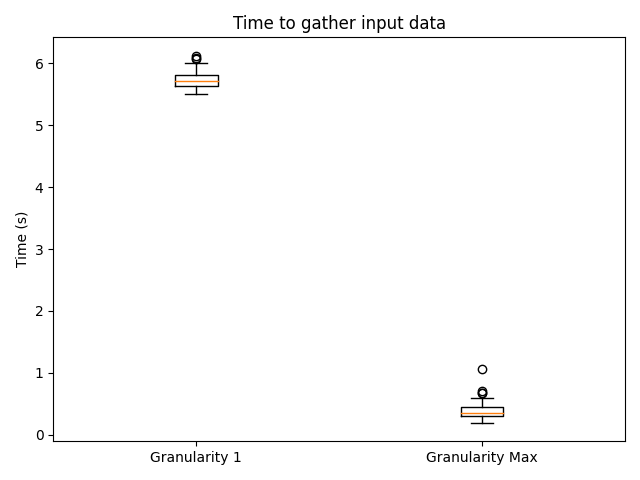
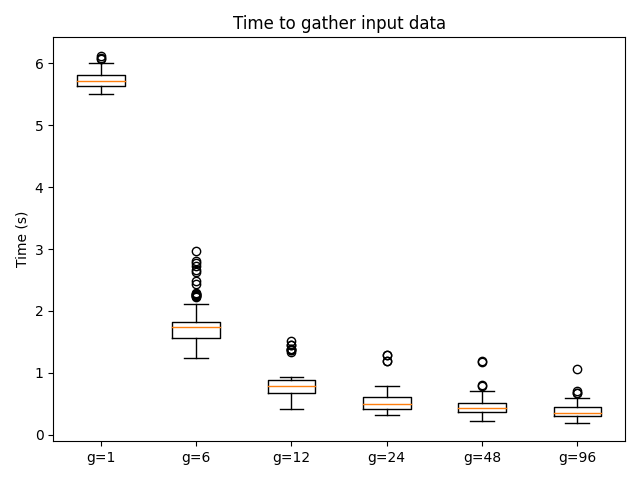
Update hypertuning plot granularities

diff --git a/hyperparameter-tuning/plot.py b/hyperparameter-tuning/plot.py
@@ -4,50 +4,37 @@ import os
 import json
 import pandas as pd
 
-GRANULARITY_1_DIR = "hyperparameter-tuning/results-noOW/bs-96-g-1/"
-GRANULARITY_MAX_DIR = "hyperparameter-tuning/results-noOW/bs-96-g-96/"
+GRANULARITIES = [1, 6, 12, 24, 48, 96]
+
+def load_data(granularity):
+    directory = f"hyperparameter-tuning/results-noOW/bs-96-g-{granularity}/"
+    workers_data = []
+    files = os.listdir(directory)
+    for file in files:
+        with open(os.path.join(directory, file), "r") as f:
+            data = json.load(f)
+            workers_data.extend(data)
+    df = pd.DataFrame.from_records(workers_data)
+    for col in df.columns:
+        if df[col].dtype == "object":
+            df[col] = pd.to_numeric(df[col], errors="coerce")
+    t0 = df["init_fn"].min() / 1000
+    t = (df["input_gathered"] / 1000) - t0
+    return t
 
 if __name__ == "__main__":
-    workers_data = []
-    files = os.listdir(GRANULARITY_1_DIR)
-    for file in files:
-        with open(os.path.join(GRANULARITY_1_DIR, file), "r") as f:
-            data = json.load(f)
-            workers_data.extend(data)
-
-    g1_df = pd.DataFrame.from_records(workers_data)
-    for col in g1_df.columns:
-        if g1_df[col].dtype == "object":
-            g1_df[col] = pd.to_numeric(g1_df[col], errors="coerce")
-
-    print(pd.to_numeric(g1_df["input_gathered"], errors="coerce"))
-
-    g1_t0 = g1_df["init_fn"].min() / 1000
-    g1_t = (g1_df["input_gathered"] / 1000) - g1_t0
-
-    files = os.listdir(GRANULARITY_MAX_DIR)
-    workers_data = []
-    for file in files:
-        with open(os.path.join(GRANULARITY_MAX_DIR, file), "r") as f:
-            data = json.load(f)
-            workers_data.extend(data)
-
-    gmax_df = pd.DataFrame.from_dict(workers_data)
-    for col in gmax_df.columns:
-        if gmax_df[col].dtype == "object":
-            gmax_df[col] = pd.to_numeric(gmax_df[col], errors="coerce")
-
-    gmax_t0 = gmax_df["init_fn"].min() / 1000
-    gmax_t = (gmax_df["input_gathered"] / 1000) - gmax_t0
+    data_to_plot = []
+    labels = []
+    for granularity in GRANULARITIES:
+        t = load_data(granularity)
+        data_to_plot.append(t)
+        labels.append(f"g={granularity}")
 
     fig, ax = plt.subplots()
-    ax.boxplot([g1_t, gmax_t], labels=["Granularity 1", "Granularity Max"])
+    ax.boxplot(data_to_plot, labels=labels)
 
     ax.set_title("Time to gather input data")
     ax.set_ylabel("Time (s)")
 
     fig.tight_layout()
     plt.savefig("hyperparameter-tuning/input-gathered.png")
-
-    # print(g1_df)
-    # print(gmax_df)
